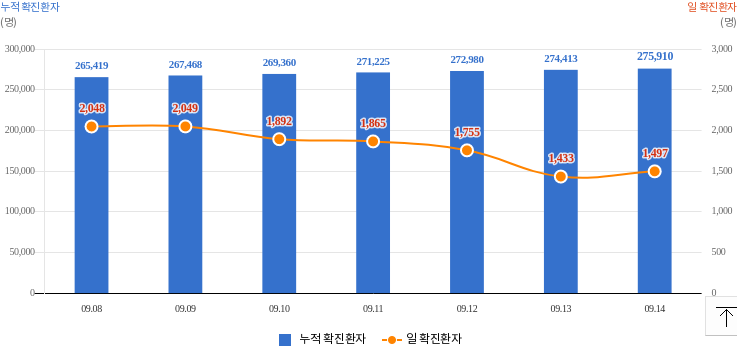
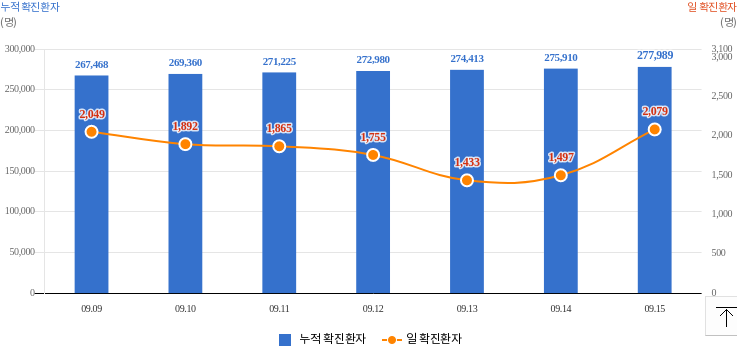
Run crawler and update current data

diff --git a/data.js b/data.js
@@ -1,13 +1,13 @@
-var 날짜 = '2021. 9. 14. (화)  0시 기준';
-var 계 = '1,685';
+var 날짜 = '2021. 9. 14. (화)  11시 기준';
+var 계 = '1,686';
 var 완치 = '1,631';
-var 입원중 = '51';
+var 입원중 = '52';
 var 사망자 = '3';
-var 검사중 = '1,888';
+var 검사중 = '1,887';
 var 검사결과 = '426,408';
 var 자가격리자 = '296';
 var 거리두기단계 = '사회적 거리두기  3단계 시행 : 2021.9.6.(월) 0시 ~ 10.3.(일) 24시';
-var 국내발생 = '1,463';
-var 해외발생 = '34';
-var 합계 = '1497';
+var 국내발생 = '2,057';
+var 해외발생 = '23';
+var 합계 = '2080';
 var data = [];
